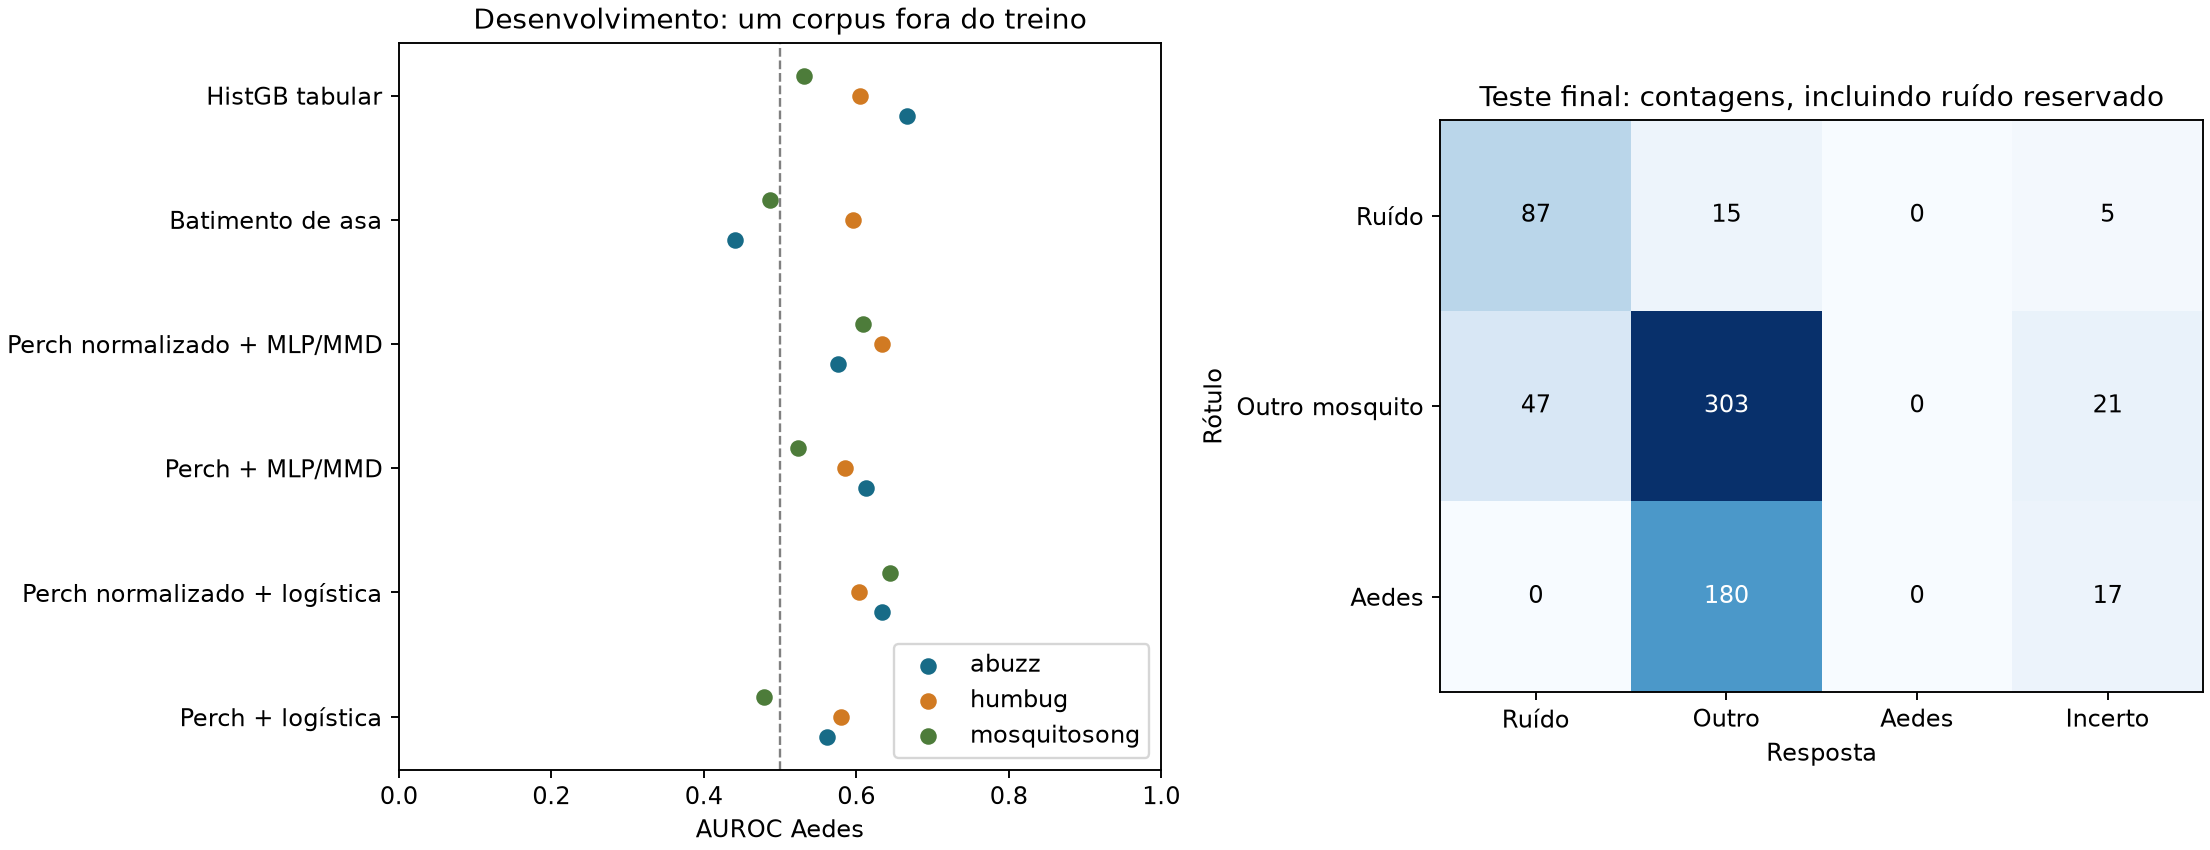
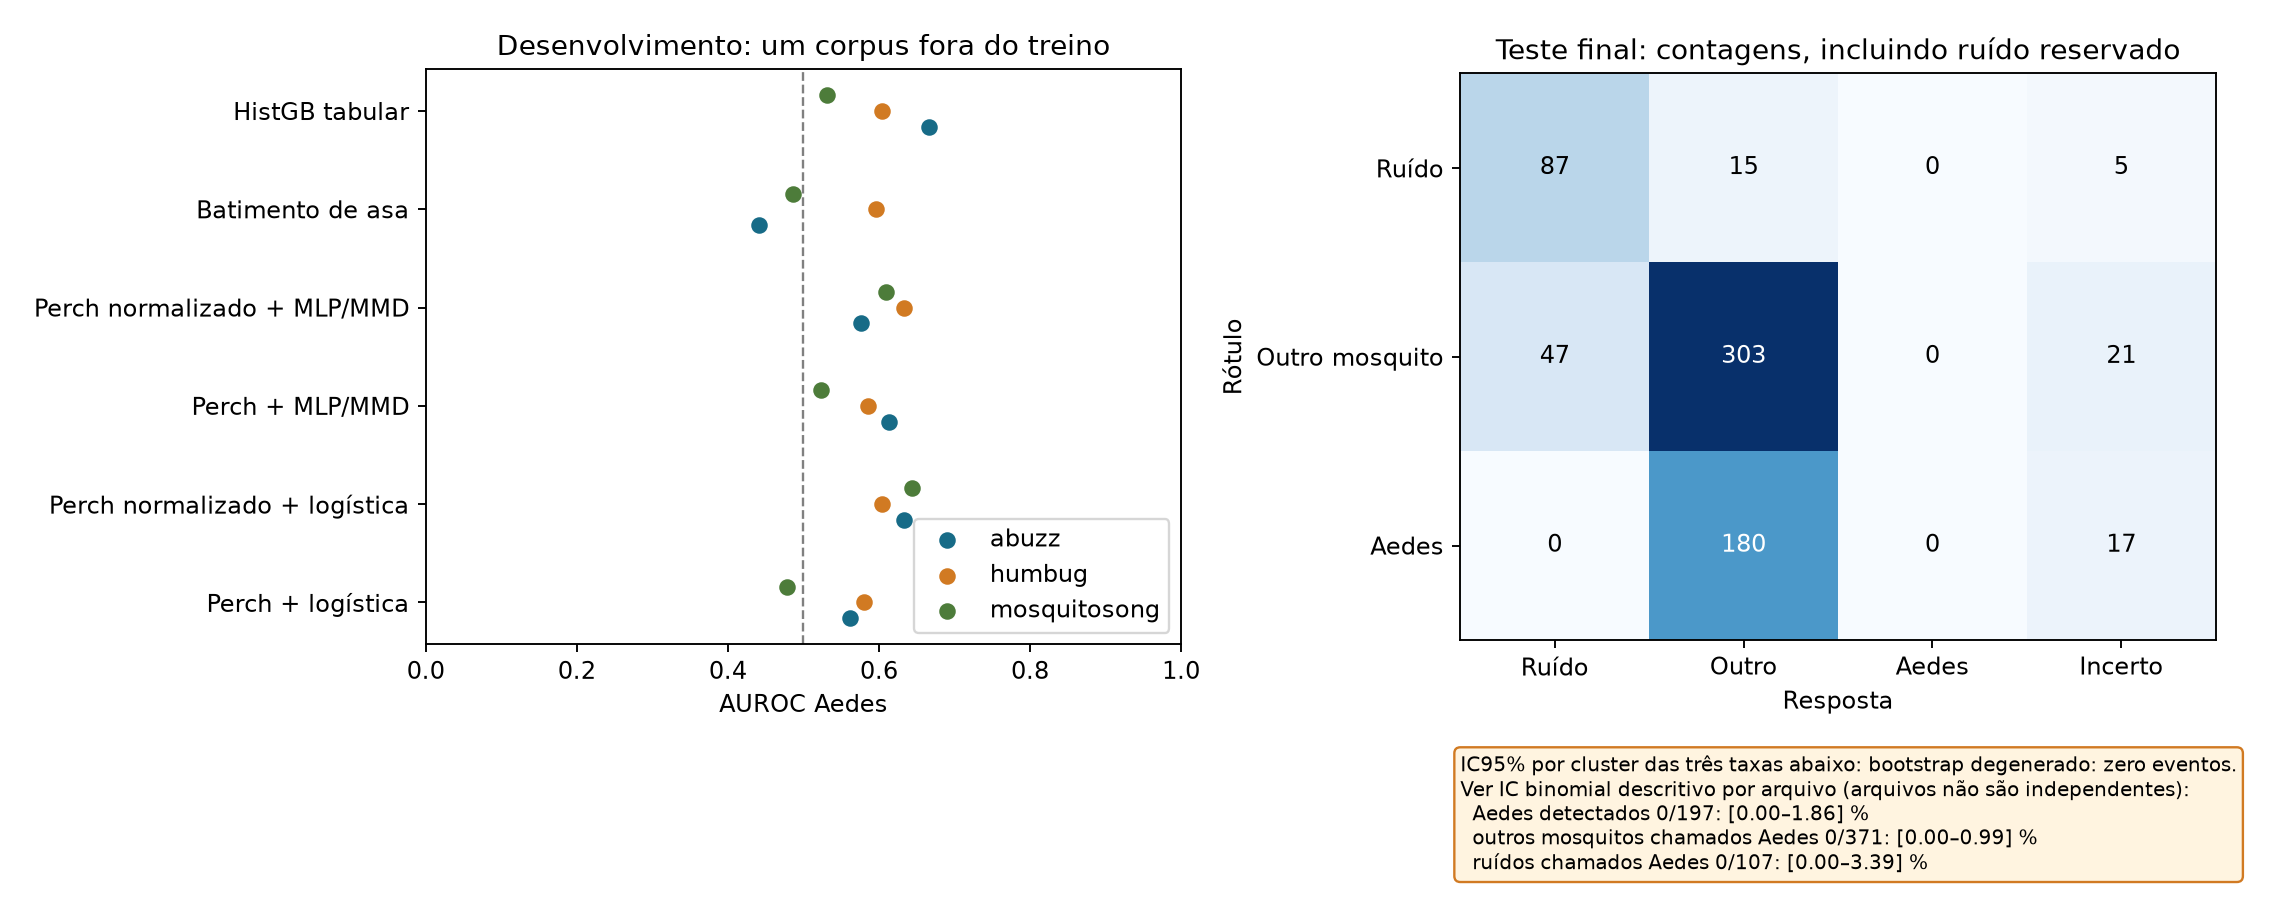
v3: anota intervalos bootstrap degenerados e mostra IC binomial descritivo
Com zero eventos (0/197 Aedes, 0/371 outros, 0/107 ruidos) o bootstrap
por cluster devolve [0, 0]. O relatorio e resultados.png passam a marcar
"bootstrap degenerado: zero eventos; ver IC binomial descritivo" e a
mostrar, ao lado, o IC binomial por arquivo ja publicado em
final_metrics.json (0-1,86%, 0-0,99%, 0-3,39%).

- v3_report.py: o texto do relatorio vira report_lines(), que incorpora
  a revisao documental de 20/10 calculada dos dados; sem anotacao, ele
  reproduz byte a byte o relatorio anterior (c30315e...).
- Novo modo --derived-only: regenera so a figura e o relatorio a partir
  das saidas congeladas, recusa rodar se o relatorio nao corresponder e
  nao reescreve se ja estiver anotado.
- Comparacao antes/depois: os 151 numeros do relatorio permanecem na
  mesma ordem; os acrescimos sao os limites binomiais e as contagens da
  nota. Matriz e AUROCs da figura identicos. final_metrics.json e demais
  JSON/CSV inalterados. Registro em document_revision_2026_10_22.json.

diff --git a/reanalysis/v3_report.py b/reanalysis/v3_report.py
@@ -21,10 +21,27 @@ def percent(value):
     return "indefinido" if value is None else f"{100 * value:.2f}%"
 
 
-def interval(result, key):
+DEGENERATE_NOTE = "bootstrap degenerado: zero eventos; ver IC binomial descritivo"
+
+
+def degenerate(result, key):
+    """Cluster bootstrap collapses to [x, x] when the event never occurs (e.g. 0/197)."""
+    ci = result.get("ci95", {}).get(key)
+    return bool(ci) and ci[0] == ci[1]
+
+
+def interval(result, key, annotate=False):
     value = result["point"].get(key)
     ci = result.get("ci95", {}).get(key)
+    if ci and degenerate(result, key):
+        return percent(value) + (f" — {DEGENERATE_NOTE}" if annotate else " (bootstrap degenerado)")
     return percent(value) + (f" [{100 * ci[0]:.2f}–{100 * ci[1]:.2f}]" if ci else "")
+
+
+def binomial(result, key):
+    """Per-file binomial 95% CI, published as description only (files of a cluster are not independent)."""
+    ci = result.get("file_binomial_ci95_descriptive_only", {}).get(key)
+    return f"[{100 * ci[0]:.2f}–{100 * ci[1]:.2f}]" if ci else "—"
 
 
 def main():
@@ -51,10 +68,59 @@ def main():
         compact.append({key: record[key] for key in ["corpus", "k", "repeat", "available"]} |
                        (record["metrics"] if record["available"] else {"reason": record["reason"]}))
     pd.DataFrame(compact).drop(columns=["confusion", "class_clusters"], errors="ignore").to_csv(PUBLIC / "fewshot_summary.csv", index=False)
-    _plots(dev, final, predictions)
+    _plots(dev, final, predictions, annotate=True)
+    selected = selection["candidate"]
+    model_path = OUT / "final" / f"{selected}.joblib"
+    amendment = json.loads((PUBLIC / "technical_amendment_A3.json").read_text())
+    body = report_lines(final, dev, selection, fewshot, digest(model_path), amendment, annotate=True)
+    report_path = ROOT / "reports/continuacao_v3.md"
+    report_path.write_text("\n".join(body) + "\n")
+    delivery = dict(complete=True, report_sha256=digest(report_path),
+                    files={str(p.relative_to(ROOT)): digest(p) for p in PUBLIC.iterdir() if p.is_file()},
+                    selected=selected, success=final["success"], historical_weights_modified=False,
+                    notebook_modified=False)
+    write_json(OUT / "delivery_verification.json", delivery)
+    print(json.dumps(dict(report=str(report_path), selected=selected, success=final["success"]), indent=2))
+
+
+REASONS = {"No candidate met the development criteria; highest-AUROC descriptive fallback only":
+           "Nenhum candidato atingiu as metas no desenvolvimento; este foi congelado apenas para uma avaliação descritiva, pelo maior AUROC médio."}
+FEWSHOT_CORPORA = ["abuzz", "humbug", "mosquitosong", "final_locked"]
+
+
+def results_table(final, annotate):
+    """Final-test table. With annotate=True, degenerate cluster-bootstrap intervals are flagged and the per-file
+    binomial CI (descriptive only) is shown next to every rate; no number is recomputed."""
+    m, n = final["locked_mosquito"]["point"], final["locked_noise"]["point"]
+    lm, ln = final["locked_mosquito"], final["locked_noise"]
+    rows = [("Aedes detectados", f"{m['aedes_tp']}/{m['aedes_n']}", lm, "aedes_recall"),
+            ("Alertas corretos entre alertas Aedes", f"{m['aedes_tp']}/{m['alerts']}", lm, "aedes_precision"),
+            ("Outros mosquitos chamados Aedes", f"{m['other_fp']}/{m['other_n']}", lm, "fpr_other"),
+            ("Ruídos chamados Aedes", f"{n['noise_fp']}/{n['noise_n']}", ln, "fpr_noise"),
+            ("Cobertura nos mosquitos (resposta diferente de incerto)", f"{m['n_files'] - m['uncertain']}/{m['n_files']}", lm, "coverage")]
+    if not annotate:
+        return (["| Avaliação final | Contagem | Taxa e IC95% por cluster |", "|---|---:|---|"] +
+                [f"| {label} | {count} | {interval(res, key)} |" for label, count, res, key in rows])
+    return (["| Avaliação final | Contagem | Taxa e IC95% por cluster | IC95% binomial por arquivo (descritivo) |",
+             "|---|---:|---|---|"] +
+            [f"| {label} | {count} | {interval(res, key, annotate=True)} | {binomial(res, key)} |" for label, count, res, key in rows])
+
+
+def report_lines(final, dev, selection, fewshot, model_sha256, amendment, annotate=False):
+    """Report text. annotate=False reproduces the 20/10/2026 revision (document_revision.json) byte for byte."""
     selected = selection["candidate"]
     m, n = final["locked_mosquito"]["point"], final["locked_noise"]["point"]
-    model_path = OUT / "final" / f"{selected}.joblib"
+    u = final["ungated_sensitivity_analysis"]["point"]
+    noise_upper = final["locked_noise"]["file_binomial_ci95_descriptive_only"]["fpr_noise"][1]
+    reason = REASONS.get(selection["reason"])
+    fewshot_rows = []
+    for corpus in FEWSHOT_CORPORA:
+        records = [r for r in fewshot if r["corpus"] == corpus]
+        recalls = [r["metrics"]["aedes_recall"] for r in records if r["available"]]
+        span = f"{percent(min(recalls))}–{percent(max(recalls))}" if recalls else "indisponível"
+        fewshot_rows.append(f"| {corpus} | {len(recalls)}/{len(records)} | {span} |")
+    locked_available = [r for r in fewshot if r["corpus"] == "final_locked" and r["available"]]
+    locked_hits = sum(r["metrics"]["aedes_tp"] > 0 for r in locked_available)
     body = [
         "# Continuação da v3: resultados e limites",
         "",
@@ -62,19 +128,21 @@ def main():
         "",
         "## Resultado principal",
         f"Candidato congelado pelo desenvolvimento: **{NAMES[selected]}** (`{selected}`). Elegível pelos critérios de desenvolvimento: **{'sim' if selection['eligible'] else 'não'}**.",
-        f"Motivo: {selection['reason']}.",
+        reason if reason else f"Motivo: {selection['reason']}.",
         "",
-        "| Avaliação final | Contagem | Taxa e IC95% por cluster |",
-        "|---|---:|---|",
-        f"| Aedes detectados | {m['aedes_tp']}/{m['aedes_n']} | {interval(final['locked_mosquito'], 'aedes_recall')} |",
-        f"| Alertas corretos entre alertas Aedes | {m['aedes_tp']}/{m['alerts']} | {interval(final['locked_mosquito'], 'aedes_precision')} |",
-        f"| Outros mosquitos chamados Aedes | {m['other_fp']}/{m['other_n']} | {interval(final['locked_mosquito'], 'fpr_other')} |",
-        f"| Ruídos chamados Aedes | {n['noise_fp']}/{n['noise_n']} | {interval(final['locked_noise'], 'fpr_noise')} |",
-        f"| Cobertura nos mosquitos (resposta diferente de incerto) | {m['n_files'] - m['uncertain']}/{m['n_files']} | {interval(final['locked_mosquito'], 'coverage')} |",
+        *results_table(final, annotate),
         "",
         f"AUROC Aedes no teste reservado: {final['locked_mosquito']['point']['auroc']:.3f}. Metas pontuais atingidas: **{'sim' if final['success']['observed_targets_met'] else 'não'}**. Apoio estatístico conforme a regra congelada: **{'sim' if final['success']['statistical_support'] else 'não'}**. **Não há validação de campo.**",
         "",
         "![Resultados reais da continuação](../reanalysis/outputs/v3_continuation/resultados.png)",
+        "",
+    ]
+    if annotate:
+        body += ["**Intervalos com zero eventos.** Quando a contagem é zero (0/197, 0/371, 0/107), o bootstrap por cluster reamostra apenas zeros e devolve `[0, 0]`. Isso é um artefato, não precisão: na tabela, esses casos aparecem como *" + DEGENERATE_NOTE + "*. A coluna binomial vem de `final_metrics.json` (`file_binomial_ci95_descriptive_only`) e trata arquivos como independentes, o que eles não são; serve só como descrição da incerteza mínima.", ""]
+    body += [
+        f"**Leitura operacional.** Zero falsos alertas veio acompanhado de zero Aedes detectados. Isso não constitui um detector útil nem comprova um limite populacional de falsos positivos. Em particular, {n['noise_fp']}/{n['noise_n']} ruídos tem limite superior binomial descritivo de {percent(noise_upper)} (IC95%), já acima da meta de 1%, mesmo antes de considerar dependência entre arquivos. Os intervalos bootstrap degenerados não resolvem essa limitação.",
+        "",
+        f"Na ablação predefinida **sem o portão de concordância**, a mesma cabeça detectou **{u['aedes_tp']}/{u['aedes_n']} Aedes ({percent(u['aedes_recall'])})**, com **{u['other_fp']}/{u['other_n']} falsos alertas entre outros mosquitos ({percent(u['fpr_other'])})** e precisão de **{percent(u['aedes_precision'])}**. O portão prejudicou a sensibilidade; removê-lo também não atinge as metas. Esse resultado não foi usado para mudar a configuração final.",
         "",
         "## Onde o trabalho foi retomado",
         "O Claude havia baixado e conferido o HumBugDB completo, calculado componentes de duplicação e preparado o manifesto v3, mas não havia salvo características nem treinado classificadores v3. A análise inicial e as decisões antes de qualquer novo resultado estão em `analise_de_lacunas_continuacao_v3.md`, `protocol_v3_continuation.json` e no congelamento correspondente.",
@@ -107,6 +175,12 @@ def main():
         "",
         f"Braços executados: {sum(bool(r['available']) for r in fewshot)}/{len(fewshot)}. Resultados individuais em `fewshot_summary.csv`; não somar os denominadores das repetições como se fossem novos mosquitos independentes.",
         "",
+        "| Corpus de adaptação | Braços disponíveis | Sensibilidade: mínimo–máximo entre repetições |",
+        "|---|---:|---|",
+        *fewshot_rows,
+        "",
+        f"No teste reservado, {'nenhum' if locked_hits == 0 else locked_hits} dos {['zero', 'um', 'dois', 'três', 'quatro', 'cinco', 'seis', 'sete', 'oito', 'nove', 'dez', 'onze', 'doze', 'treze', 'quatorze', 'quinze'][len(locked_available)]} braços disponíveis detectou Aedes. As variações entre repetições não são campanhas independentes. Mantiveram-se limiares e calibradores de origem; isso limita a conclusão sobre outras formas de calibração local.",
+        "",
         "## Limites da evidência",
         f"- O teste de mosquitos tem {m['n_files']} arquivos e {m['n_clusters']} clusters, com apenas {m['class_clusters']['2']} clusters contendo Aedes. Não são {m['n_files']} indivíduos independentes.",
         "- O conjunto é relacionado ao domínio D3 do BioDCASE e aos áudios UFRGS conhecidos; a proveniência UFRGS não foi confirmada para todos os clipes. Metadados de origem e contagens aparecem separados.",
@@ -129,21 +203,27 @@ def main():
         "```",
         "Os áudios e os componentes herdados devem existir antes da primeira etapa. Não há aquisição automática de dados privados. `final` recusa mudança de configuração e reutiliza a avaliação registrada em vez de selecionar novamente pelo teste. A extração é retomável somente com a mesma identidade de dados/código/modelo.",
         "",
-        f"Modelo local: `results/v3_continuation/final/{selected}.joblib`, SHA-256 `{digest(model_path)}`. Inferência de pesquisa: `python -m reanalysis.v3_predict --audio caminho.wav`. O portão de batimento é carregado junto e a saída informa que o modelo não foi validado em campo.",
+        f"Modelo local: `results/v3_continuation/final/{selected}.joblib`, SHA-256 `{model_sha256}`. Inferência de pesquisa: `python -m reanalysis.v3_predict --audio caminho.wav`. O portão de batimento é carregado junto e a saída informa que o modelo não foi validado em campo.",
         "",
         "Referências de método: [Perch, código oficial](https://github.com/google-research/perch), [Gong et al., preprint de alinhamento de domínios](https://arxiv.org/abs/2610.09737), [BioDCASE, tarefa oficial](https://biodcase.github.io/challenge2026/task5). Esta implementação é uma adaptação registrada, não uma reprodução integral desses trabalhos.",
+        "",
+        "## Correção técnica e verificações finais",
+        "",
+        f"A emenda A3 recuperou as durações físicas de {amendment['n_missing_physical_durations_recovered']} arquivos MP4/M4A dos metadados v2 congelados, apenas para o diagnóstico de duração. Não houve imputação por rótulo, troca de partições, alteração de hiperparâmetros ou dos seis candidatos acústicos já executados. O código anterior, as identidades e os hashes dos modelos foram preservados; a auditoria está em `technical_amendment_A3.json`.",
+        "",
+        "A suíte terminou com **70 testes aprovados**. A inferência em um WAV real de desenvolvimento foi comparada às características em cache e produziu o mesmo rótulo e escore dentro da tolerância numérica. Os hashes do notebook, dos metadados de referência e dos pesos históricos permaneceram idênticos.",
     ])
-    report_path = ROOT / "reports/continuacao_v3.md"
-    report_path.write_text("\n".join(body) + "\n")
-    delivery = dict(complete=True, report_sha256=digest(report_path),
-                    files={str(p.relative_to(ROOT)): digest(p) for p in PUBLIC.iterdir() if p.is_file()},
-                    selected=selected, success=final["success"], historical_weights_modified=False,
-                    notebook_modified=False)
-    write_json(OUT / "delivery_verification.json", delivery)
-    print(json.dumps(dict(report=str(report_path), selected=selected, success=final["success"]), indent=2))
+    return body
 
 
-def _plots(dev, final, predictions):
+def plot_data(dev, predictions):
+    """Numbers drawn in resultados.png, so before/after regenerations can be compared exactly."""
+    auroc = {corpus: [dev[f"LODO_{corpus}"][name]["point"]["auroc"] for name in CANDIDATES] for corpus in CORPORA}
+    matrix = np.bincount(predictions.target.to_numpy(int) * 4 + predictions.pred.to_numpy(int), minlength=12).reshape(3, 4)
+    return dict(auroc=auroc, confusion=matrix.tolist())
+
+
+def _plots(dev, final, predictions, annotate=False):
     fig, axes = plt.subplots(1, 2, figsize=(13, 5), constrained_layout=True)
     colors = ["#176B87", "#D17A22", "#4D7C3A"]
     for j, corpus in enumerate(CORPORA):
@@ -160,9 +240,56 @@ def _plots(dev, final, predictions):
     axes[1].set_xticks(range(4), ["Ruído", "Outro", "Aedes", "Incerto"])
     axes[1].set_yticks(range(3), ["Ruído", "Outro mosquito", "Aedes"])
     axes[1].set(xlabel="Resposta", ylabel="Rótulo", title="Teste final: contagens, incluindo ruído reservado")
-    fig.savefig(PUBLIC / "resultados.png", dpi=170)
+    if annotate:
+        lm, ln = final["locked_mosquito"], final["locked_noise"]
+        m, n = lm["point"], ln["point"]
+        lines = ["IC95% por cluster das três taxas abaixo: bootstrap degenerado: zero eventos.",
+                 "Ver IC binomial descritivo por arquivo (arquivos não são independentes):",
+                 f"  Aedes detectados {m['aedes_tp']}/{m['aedes_n']}: {binomial(lm, 'aedes_recall')} %",
+                 f"  outros mosquitos chamados Aedes {m['other_fp']}/{m['other_n']}: {binomial(lm, 'fpr_other')} %",
+                 f"  ruídos chamados Aedes {n['noise_fp']}/{n['noise_n']}: {binomial(ln, 'fpr_noise')} %"]
+        axes[1].text(0.0, -0.2, "\n".join(lines), transform=axes[1].transAxes, ha="left", va="top", fontsize=8.5,
+                     bbox=dict(boxstyle="round", facecolor="#FFF4E0", edgecolor="#D17A22"))
+    fig.savefig(PUBLIC / "resultados.png", dpi=170, **({"bbox_inches": "tight", "pad_inches": 0.2} if annotate else {}))
     plt.close(fig)
 
 
+def derived_only():
+    """Regenerate only resultados.png and reports/continuacao_v3.md, with the degenerate-interval annotation.
+    Reads the frozen outputs; does not copy, recompute or overwrite metrics, CSVs, freezes or delivery records."""
+    final = json.loads((PUBLIC / "final_metrics.json").read_text())
+    dev = json.loads((PUBLIC / "development_metrics.json").read_text())
+    selection = json.loads((PUBLIC / "selection.json").read_text())
+    predictions = pd.read_csv(PUBLIC / "final_predictions.csv")
+    fewshot = json.loads((OUT / "fewshot_summary.json").read_text())
+    amendment = json.loads((PUBLIC / "technical_amendment_A3.json").read_text())
+    selected = selection["candidate"]
+    report_path = ROOT / "reports/continuacao_v3.md"
+    before = dict(report_sha256=digest(report_path), figure_sha256=digest(PUBLIC / "resultados.png"),
+                  metrics_sha256=digest(PUBLIC / "final_metrics.json"))
+    unannotated = "\n".join(report_lines(final, dev, selection, fewshot, digest(OUT / "final" / f"{selected}.joblib"),
+                                          amendment, annotate=False)) + "\n"
+    body = report_lines(final, dev, selection, fewshot, digest(OUT / "final" / f"{selected}.joblib"), amendment, annotate=True)
+    current = report_path.read_text()
+    if current == "\n".join(body) + "\n" and (PUBLIC / "document_revision_2026_10_22.json").exists():
+        print("relatório já anotado; nada foi escrito")
+        return
+    if current != unannotated:
+        raise SystemExit("o relatório atual não corresponde à revisão de 20/10/2026; nada foi escrito")
+    _plots(dev, final, predictions, annotate=True)
+    report_path.write_text("\n".join(body) + "\n")
+    revision = dict(kind="post_run_document_clarification", date="2026-10-22",
+                    changes="Flag degenerate zero-event cluster-bootstrap intervals in the report table and figure and show the "
+                            "per-file binomial CI (descriptive only) beside them. No number recomputed; no model, parameter, "
+                            "threshold, metric file or freeze changed.",
+                    previous_revision="document_revision.json", before=before,
+                    after=dict(report_sha256=digest(report_path), figure_sha256=digest(PUBLIC / "resultados.png"),
+                               metrics_sha256=digest(PUBLIC / "final_metrics.json")),
+                    plotted_numbers=plot_data(dev, predictions), scientific_model_and_threshold_changes=False)
+    write_json(PUBLIC / "document_revision_2026_10_22.json", revision)
+    print(json.dumps(dict(report=str(report_path), before=before, after=revision["after"]), indent=2))
+
+
 if __name__ == "__main__":
-    main()
+    import sys
+    derived_only() if "--derived-only" in sys.argv[1:] else main()

diff --git a/reports/continuacao_v3.md b/reports/continuacao_v3.md
@@ -6,17 +6,19 @@ Experimento concluído em 20/10/2026. Os arquivos brutos, caches e pesos ficam l
 Candidato congelado pelo desenvolvimento: **Perch normalizado + logística** (`A_perch_white`). Elegível pelos critérios de desenvolvimento: **não**.
 Nenhum candidato atingiu as metas no desenvolvimento; este foi congelado apenas para uma avaliação descritiva, pelo maior AUROC médio.
 
-| Avaliação final | Contagem | Taxa e IC95% por cluster |
-|---|---:|---|
-| Aedes detectados | 0/197 | 0.00% (bootstrap degenerado) |
-| Alertas corretos entre alertas Aedes | 0/0 | indefinido |
-| Outros mosquitos chamados Aedes | 0/371 | 0.00% (bootstrap degenerado) |
-| Ruídos chamados Aedes | 0/107 | 0.00% (bootstrap degenerado) |
-| Cobertura nos mosquitos (resposta diferente de incerto) | 530/568 | 93.31% [90.89–97.26] |
+| Avaliação final | Contagem | Taxa e IC95% por cluster | IC95% binomial por arquivo (descritivo) |
+|---|---:|---|---|
+| Aedes detectados | 0/197 | 0.00% — bootstrap degenerado: zero eventos; ver IC binomial descritivo | [0.00–1.86] |
+| Alertas corretos entre alertas Aedes | 0/0 | indefinido | — |
+| Outros mosquitos chamados Aedes | 0/371 | 0.00% — bootstrap degenerado: zero eventos; ver IC binomial descritivo | [0.00–0.99] |
+| Ruídos chamados Aedes | 0/107 | 0.00% — bootstrap degenerado: zero eventos; ver IC binomial descritivo | [0.00–3.39] |
+| Cobertura nos mosquitos (resposta diferente de incerto) | 530/568 | 93.31% [90.89–97.26] | — |
 
 AUROC Aedes no teste reservado: 0.729. Metas pontuais atingidas: **não**. Apoio estatístico conforme a regra congelada: **não**. **Não há validação de campo.**
 
 ![Resultados reais da continuação](../reanalysis/outputs/v3_continuation/resultados.png)
+
+**Intervalos com zero eventos.** Quando a contagem é zero (0/197, 0/371, 0/107), o bootstrap por cluster reamostra apenas zeros e devolve `[0, 0]`. Isso é um artefato, não precisão: na tabela, esses casos aparecem como *bootstrap degenerado: zero eventos; ver IC binomial descritivo*. A coluna binomial vem de `final_metrics.json` (`file_binomial_ci95_descriptive_only`) e trata arquivos como independentes, o que eles não são; serve só como descrição da incerteza mínima.
 
 **Leitura operacional.** Zero falsos alertas veio acompanhado de zero Aedes detectados. Isso não constitui um detector útil nem comprova um limite populacional de falsos positivos. Em particular, 0/107 ruídos tem limite superior binomial descritivo de 3.39% (IC95%), já acima da meta de 1%, mesmo antes de considerar dependência entre arquivos. Os intervalos bootstrap degenerados não resolvem essa limitação.
 
